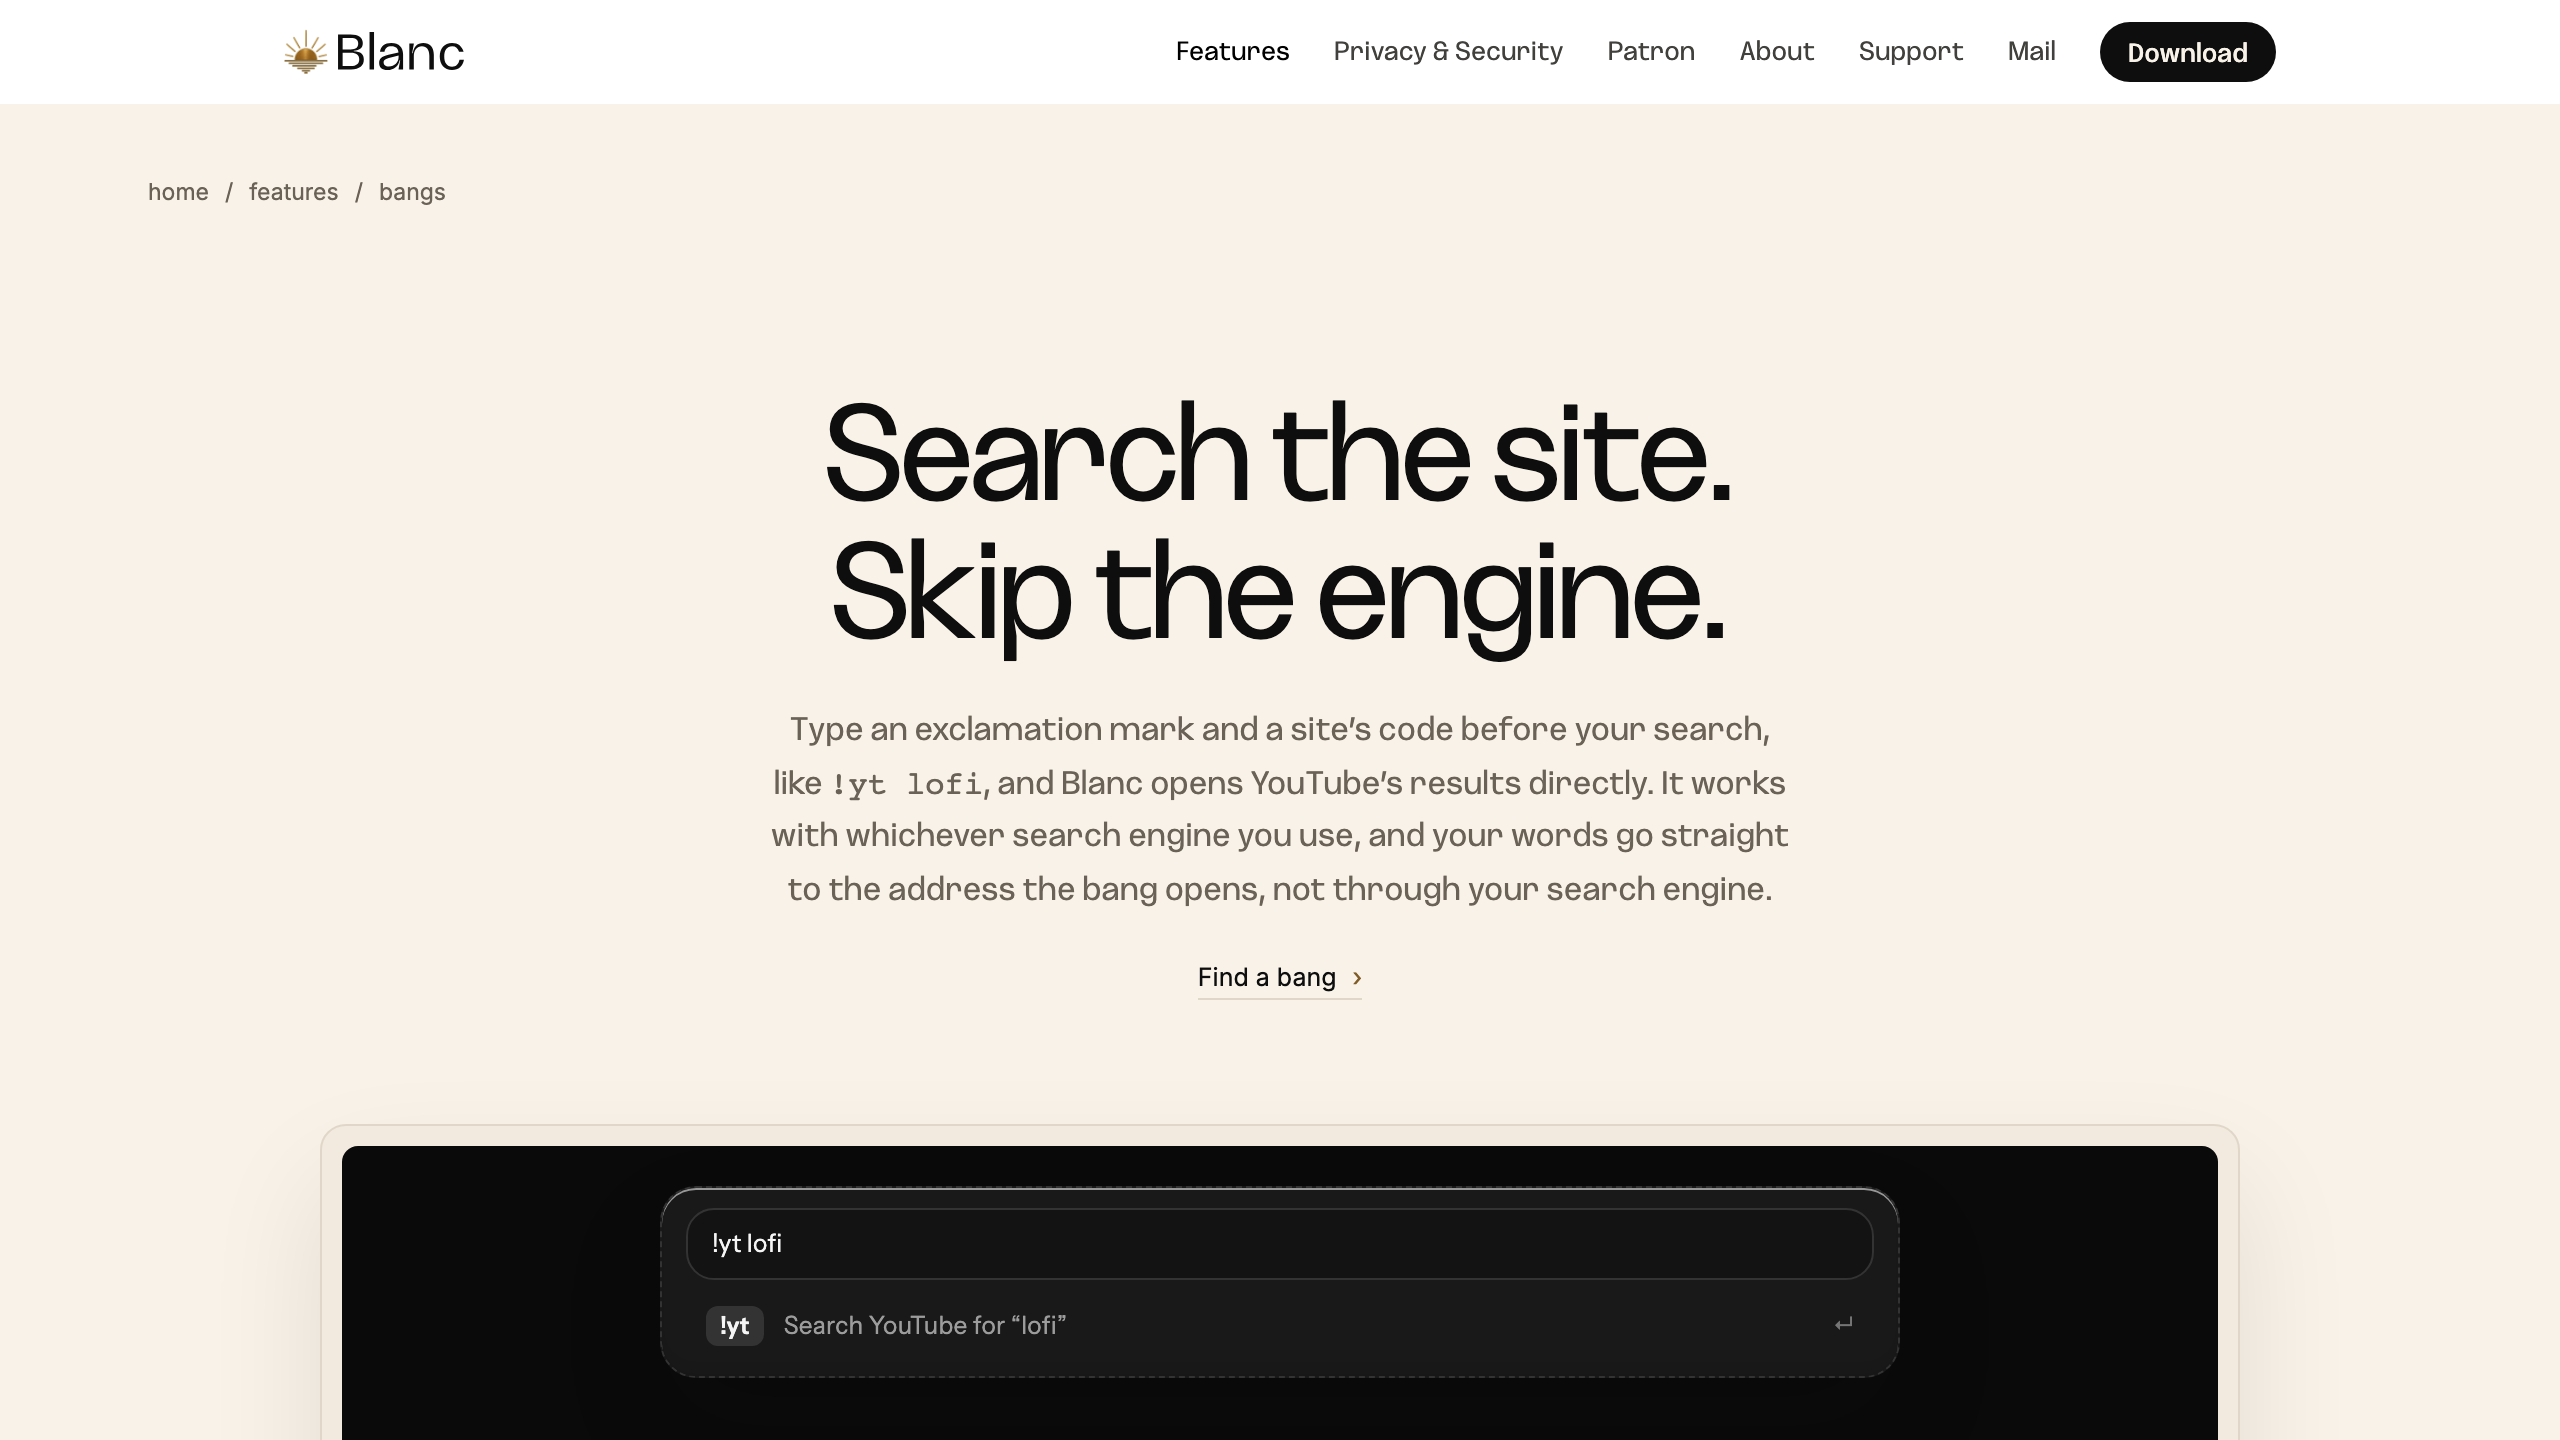
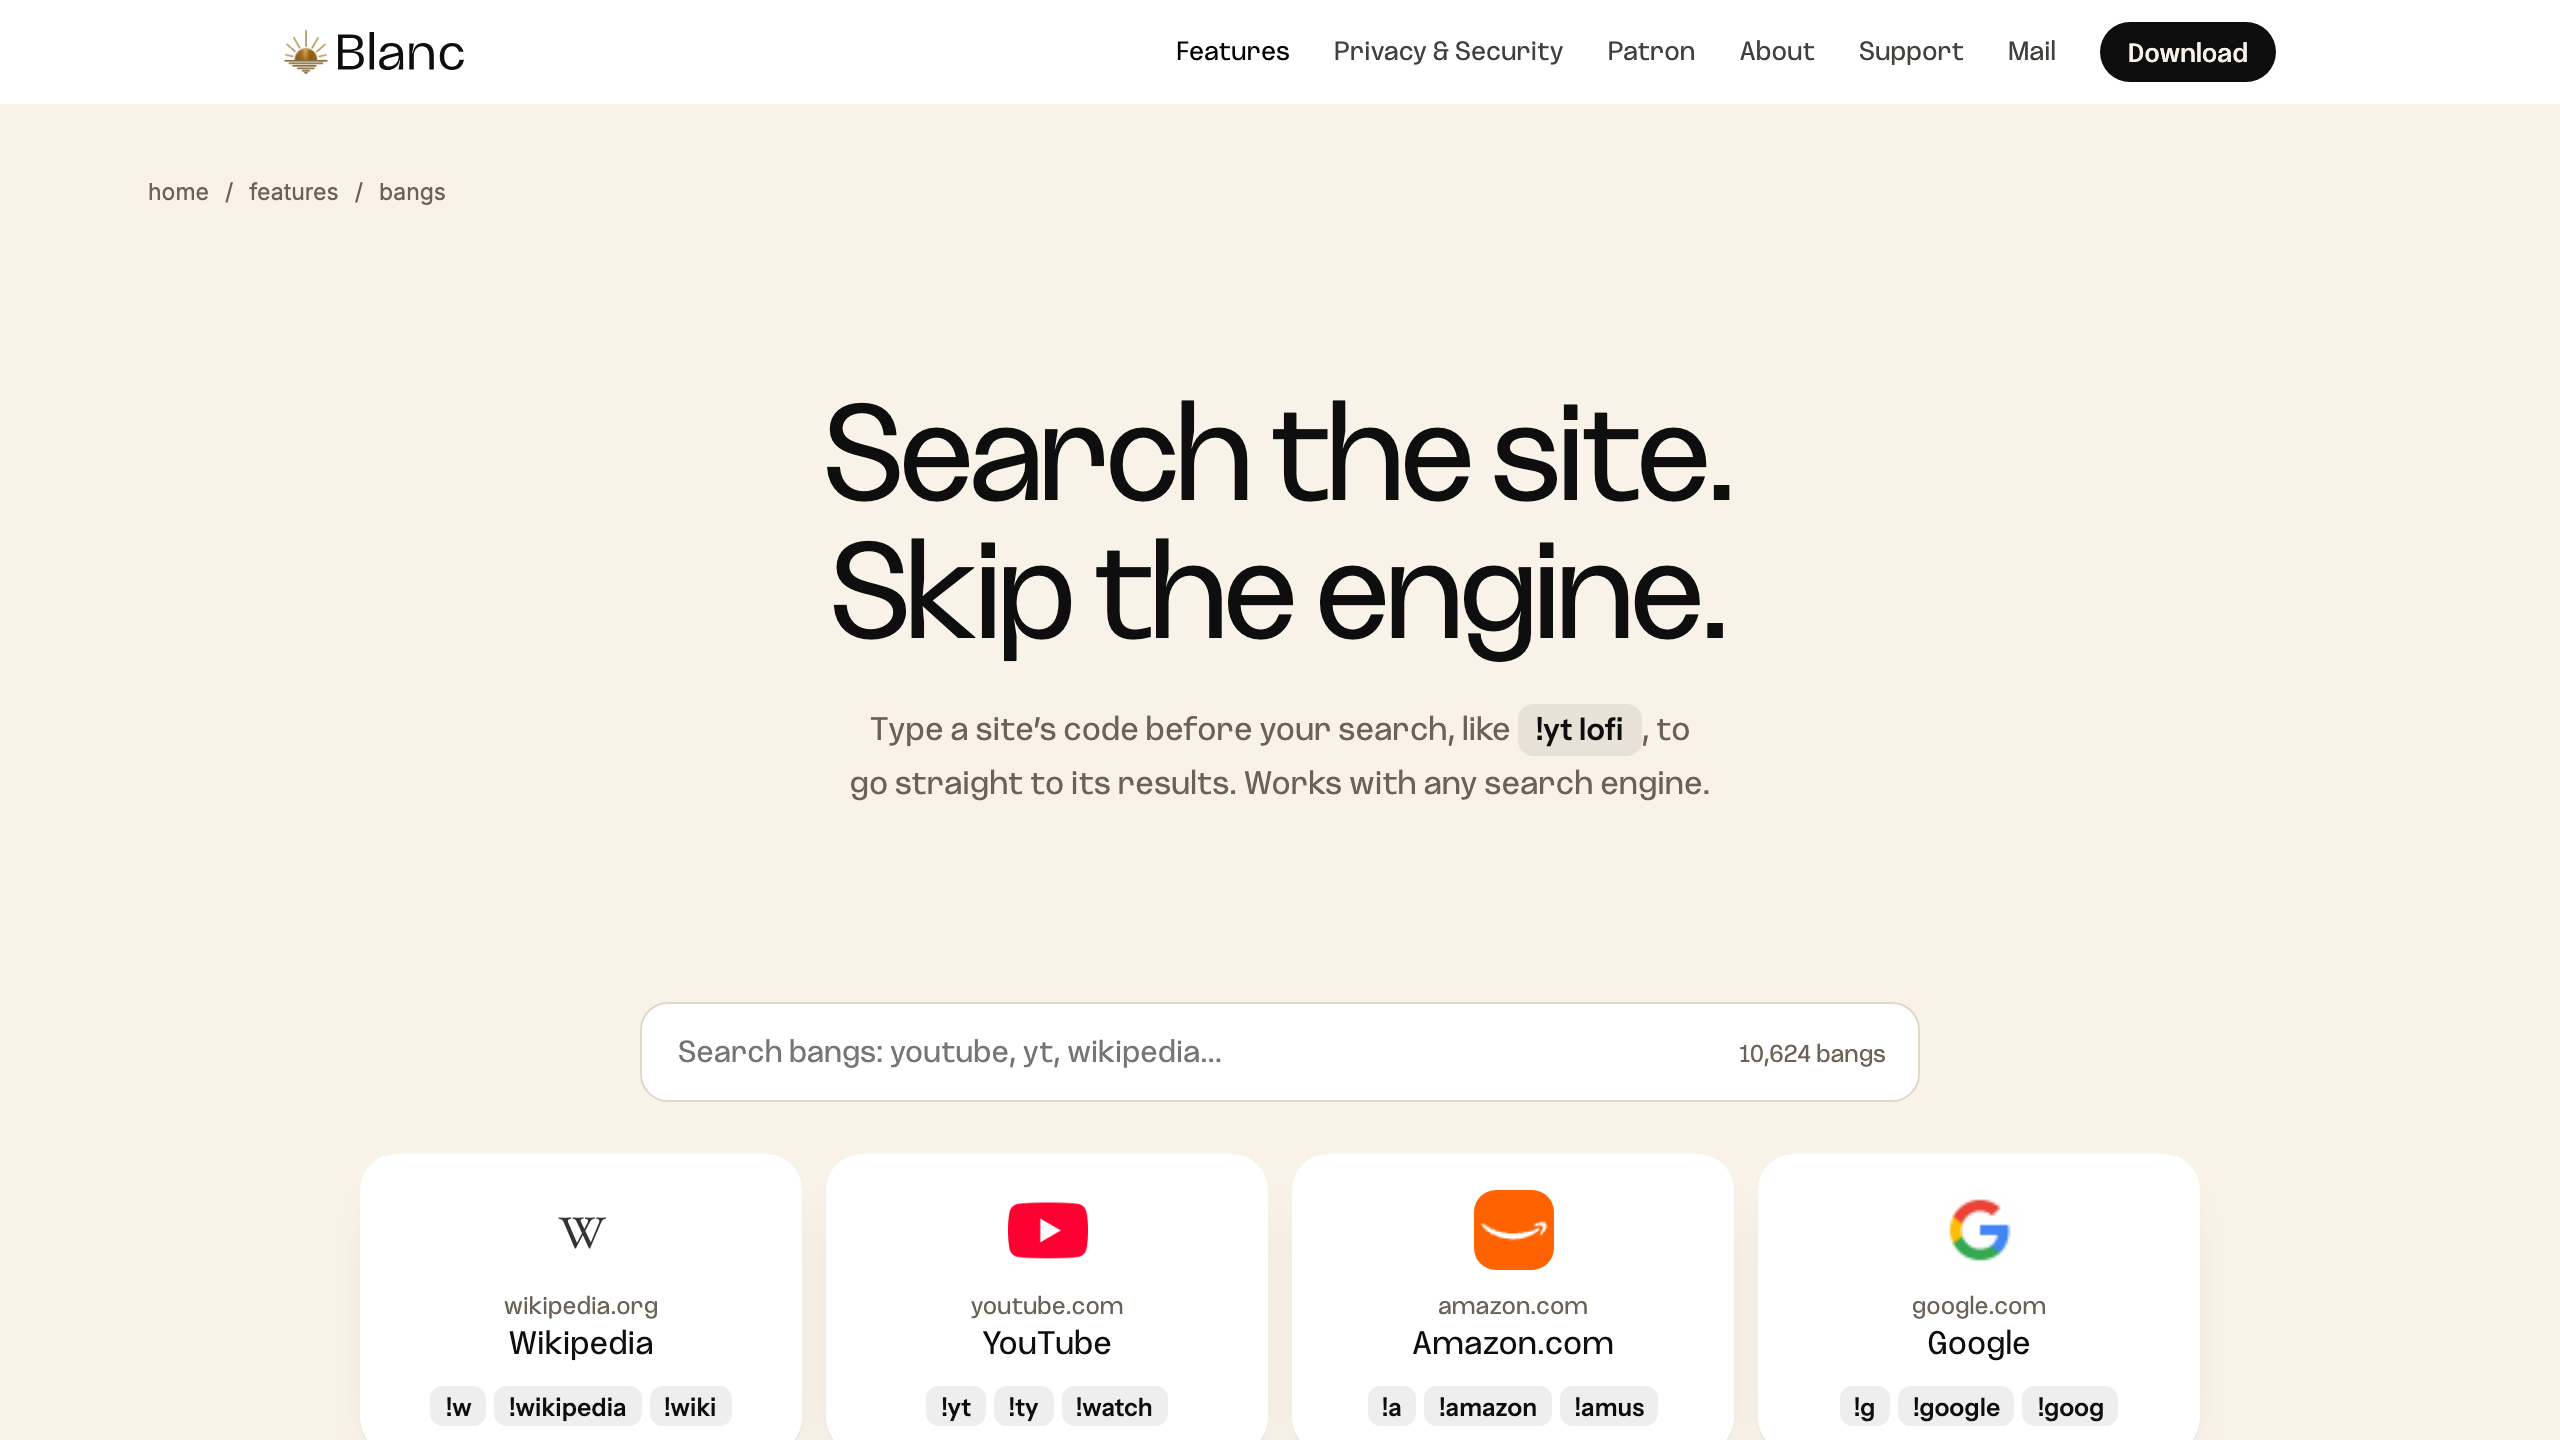
Show the redesigned Bangs page on the graphic's screen
The page moved to icon cards (#915, #919), so the iMac now shows a fresh
capture of the live page.

diff --git a/marketing/social/blanc-got-bangs-2026-10-17/README.md b/marketing/social/blanc-got-bangs-2026-10-17/README.md
@@ -7,9 +7,10 @@ nothing is scheduled.
 
 - `blanc-got-bangs-1080x1350.png` is the graphic.
 - `bangs-page-capture-1280x720@2x.png` is the real https://blanc.day/bangs,
-  captured at 1280×720 on October 17, 2026, after the v1.36.0 site deploy. The
-  screen shows this capture unedited; only the bangs and side hair overlap its
-  edges.
+  captured at 1280×720 on October 17, 2026, after the page's redesign (#915,
+  #919) went live. The screen shows this capture unedited; only the bangs and
+  side hair overlap its edges. It includes the site icons the page itself shows
+  for Wikipedia, YouTube, Amazon and Google.
 - `graphic.html` draws the iMac, wig and sparkles in SVG. The wig's strands come
   from a fixed seed, so every render matches. `render.mjs` writes the PNG
   (`node marketing/social/blanc-got-bangs-2026-10-17/render.mjs [--scale=2]`).
